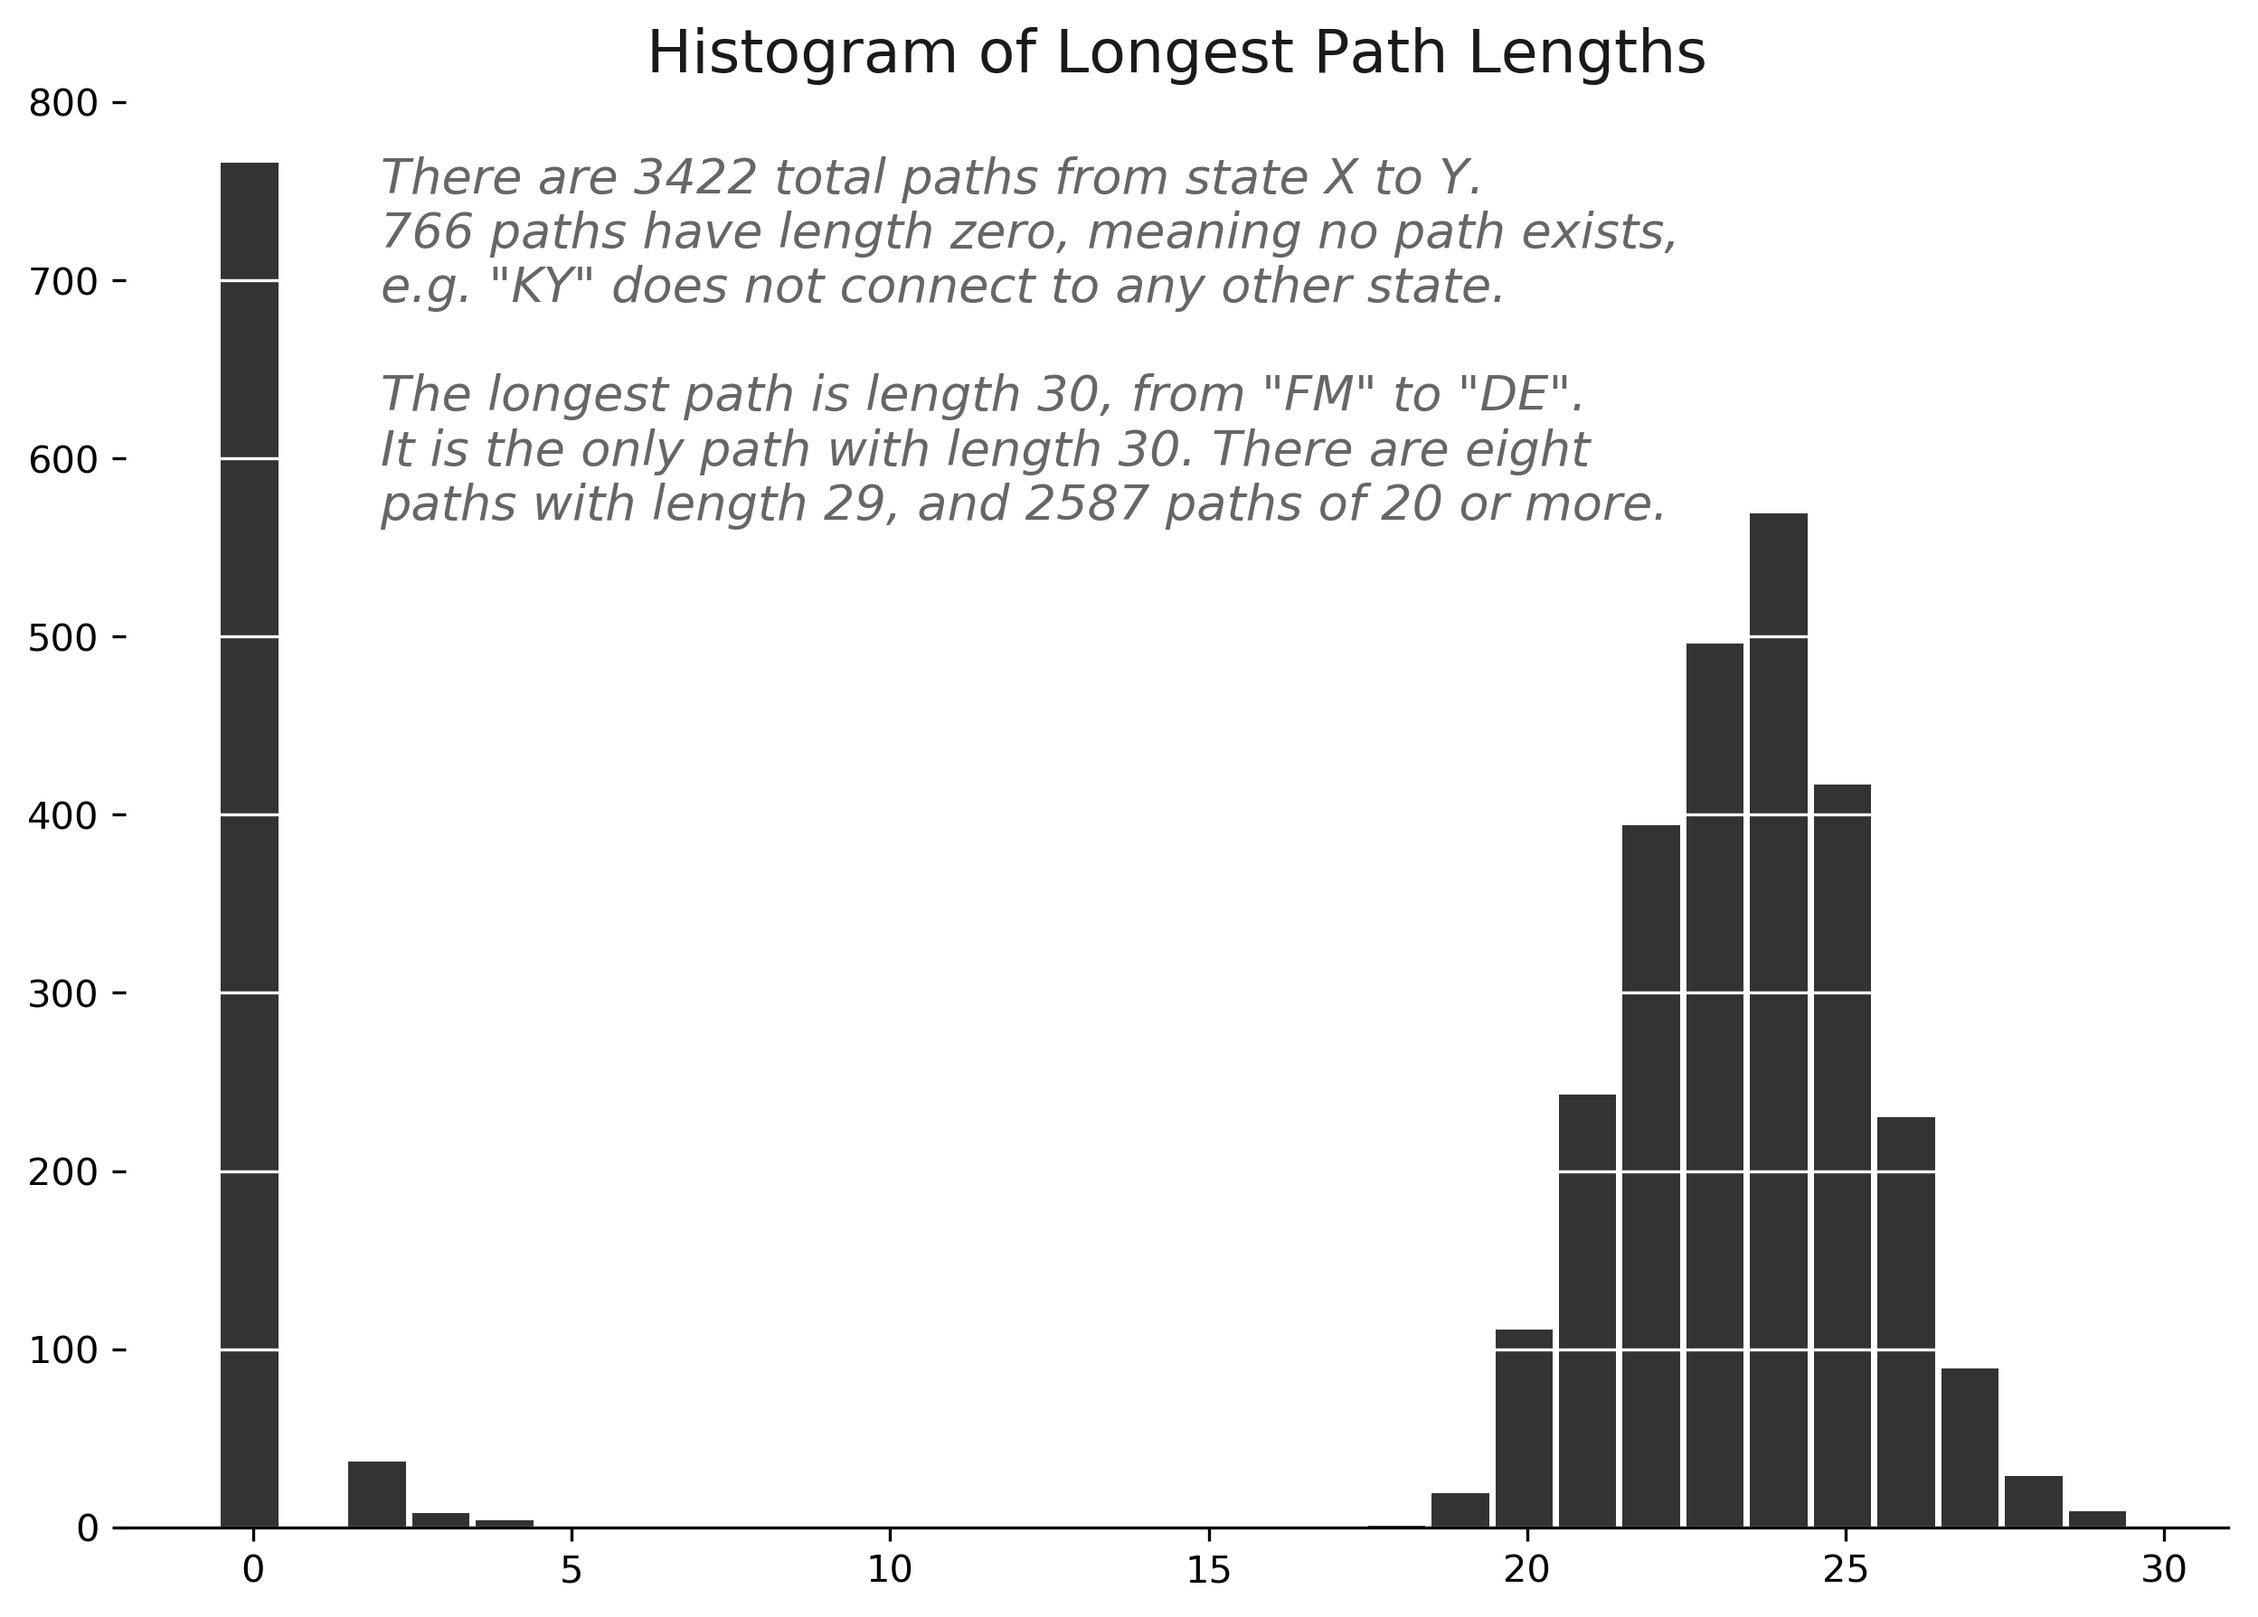
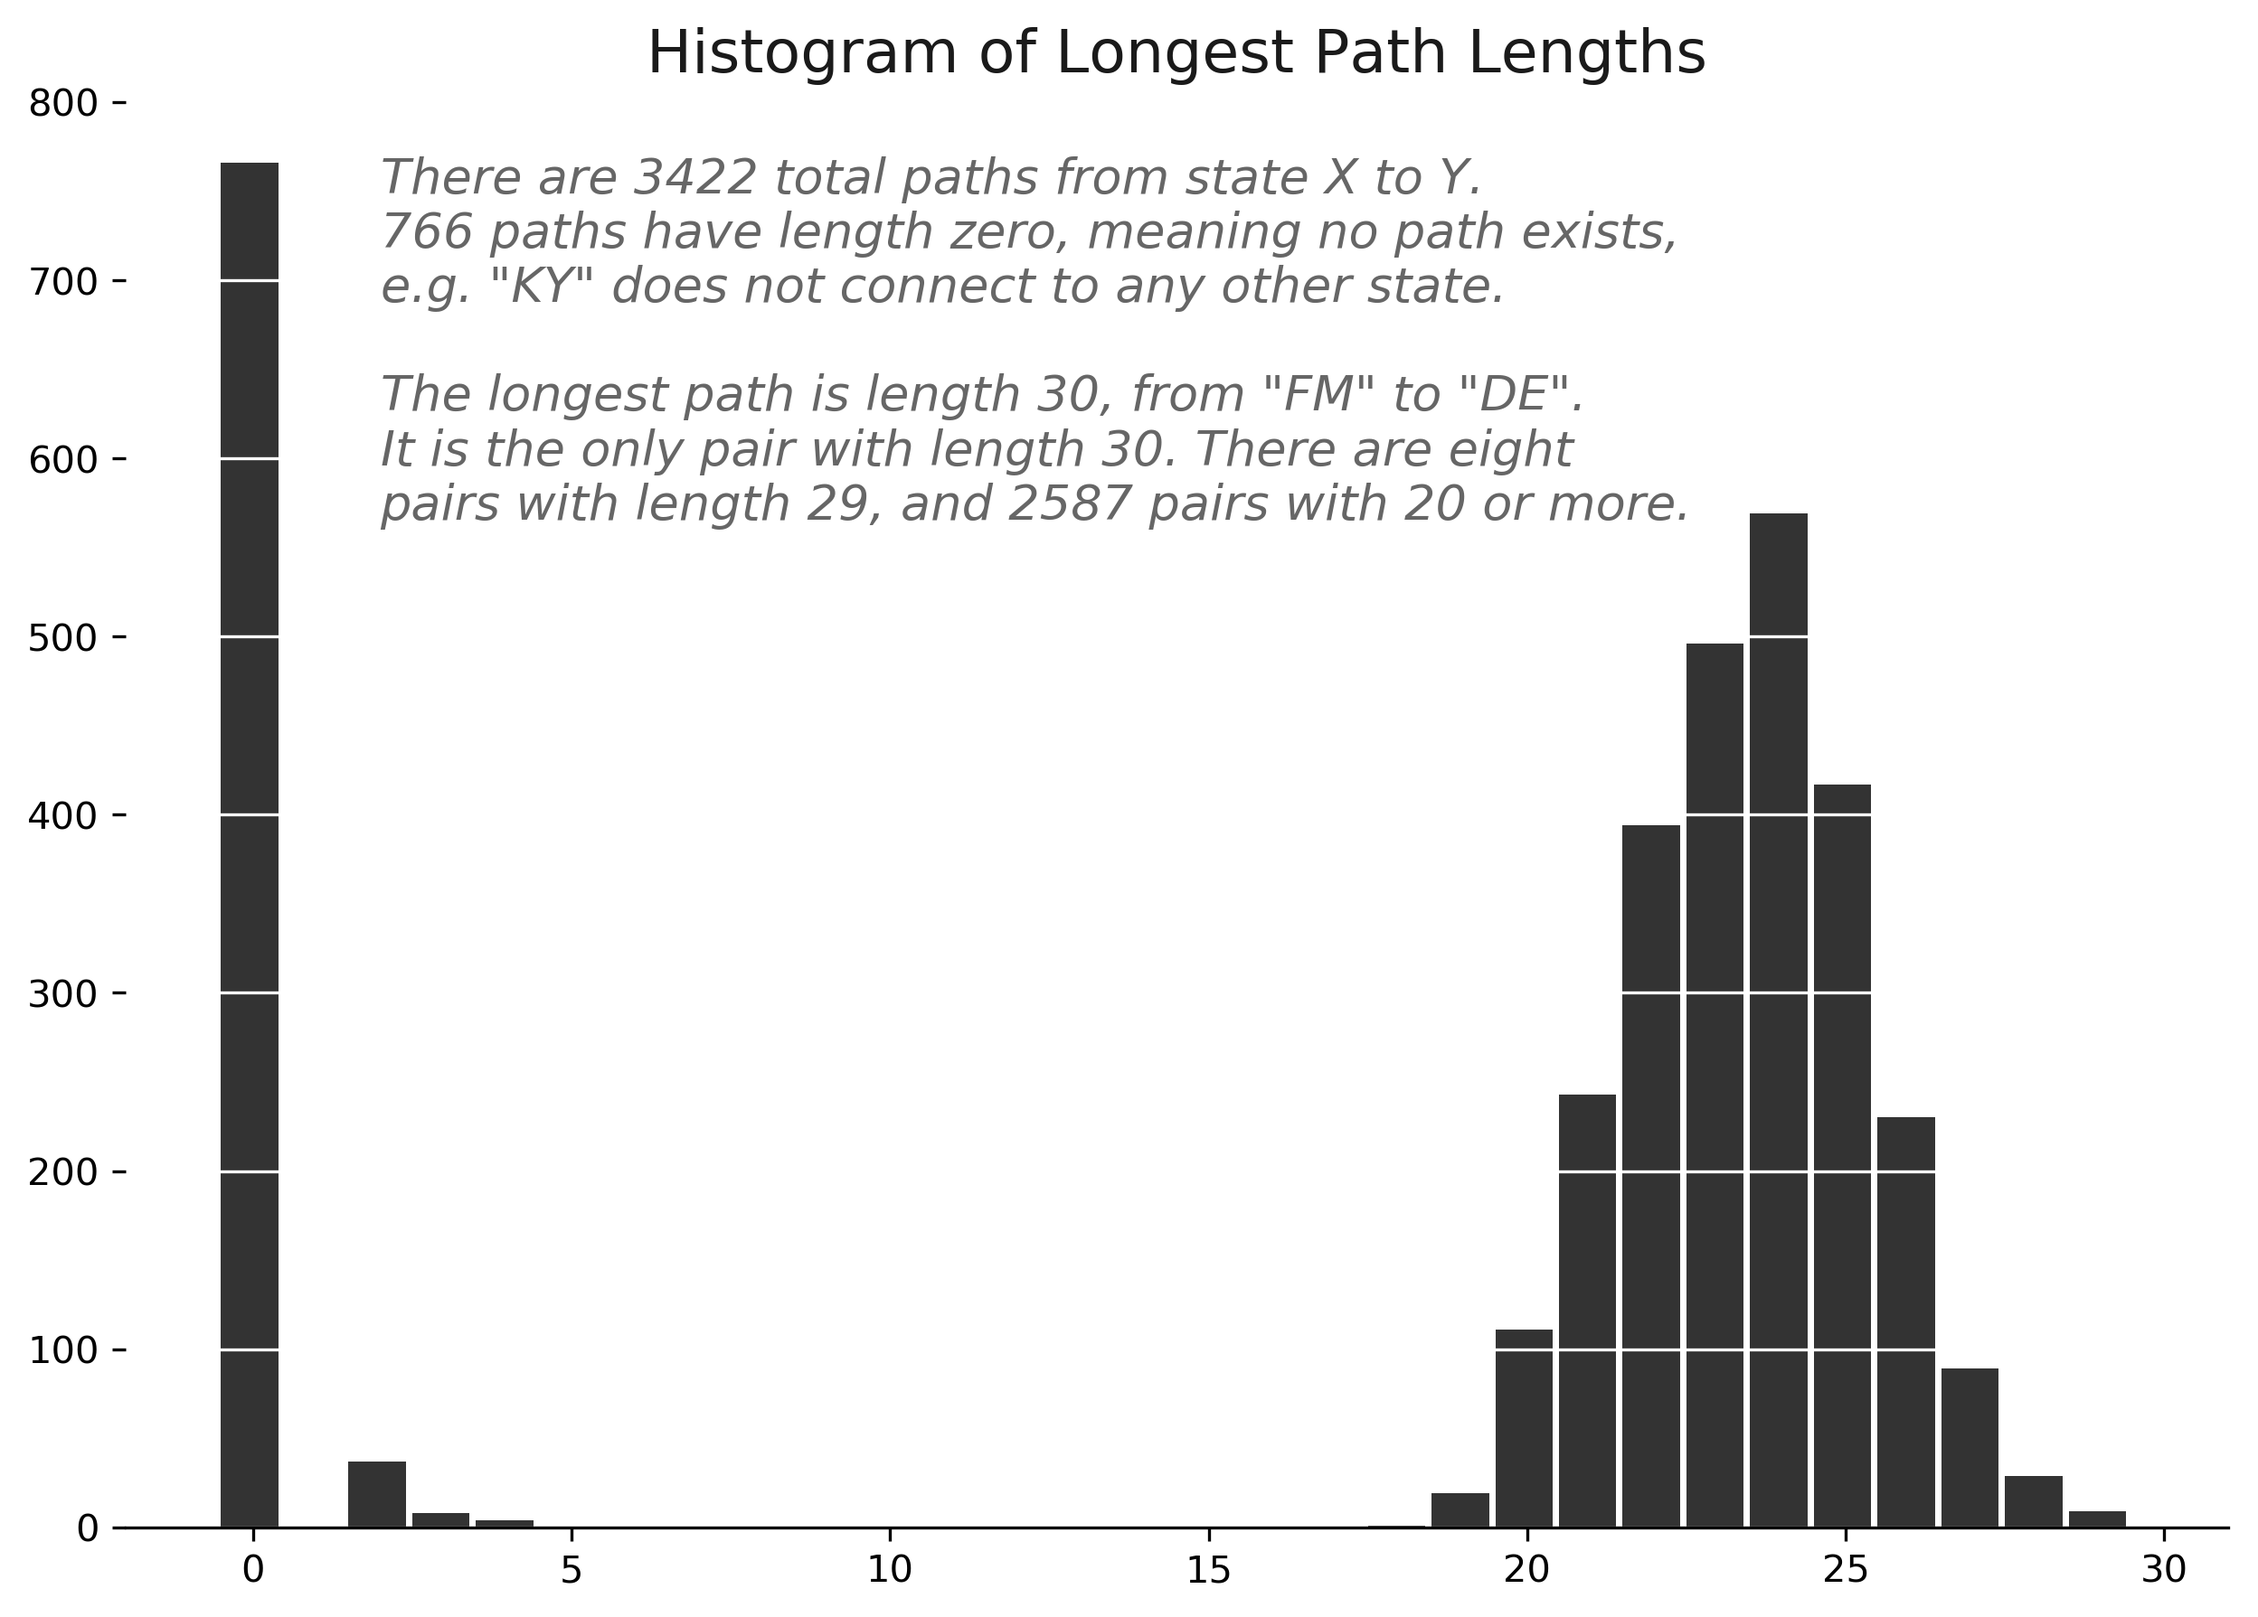
minor updates to riddler superstrings

Changed region(s): [[0.1874, 0.2459, 0.7497, 0.3382]]

diff --git a/riddler-state-superstrings.html b/riddler-state-superstrings.html
@@ -79,7 +79,7 @@
 <p>In the spirit of several prior problems, I elected to tackle this problem with a graph. The graph formalizes links between states. For example, California (CA) is linked to Alabama (AL), Alaska (AK), American Samoa (AS), Arizona (AZ), and Arkansas (AR) by the letter "A". On the other hand, certain states like Kentucky (KY) are lonelier. No state code begins with the letter Y, so Kentucky doesn't connect outward to any other state. (Don't worry, Alaska (AK) and Oklahoma (OK) connect <em>inwards</em> to Kentucky, so it's not totally alone.)</p>
 <p>Between the 59 states there are 168 connections, which we represent in a graph that looks something like this.</p>
 <p><img class="img-fluid mx-auto d-block" src="../images/20190913-riddler1.png"></p>
-<p>As it turns out, computing the longest path from any starting node to any other node is not a simple problem. It is especially difficult because this graph is <em>cyclical</em>, meaning that you can find yourself in loops of repeating patterns if you're not careful. For example, a simple loop occurs between CA -&gt; AS -&gt; SC -&gt; CA. Obviously we don't want loops in our result because we're not allowed to repeat states. Therefore, we want <em>simple paths</em> through the graph: paths that visit a node at most one time.</p>
+<p>As it turns out, computing the longest path from any starting node to any other node is not an easy problem. It is especially difficult because this graph is <em>cyclical</em>, meaning that you can find yourself in loops of repeating patterns if you're not careful. For example, a loop occurs between CA -&gt; AS -&gt; SC -&gt; CA. Obviously we don't want loops in our result because we're not allowed to repeat states. Therefore, we want <em>simple paths</em> through the graph: paths that visit a node at most one time.</p>
 <p>Furtunately, algorithms exist to calculate simple paths through cyclical graphs, but they can be very slow. Despite this, with a bit of patience (82 minutes of patience, to be specific in this case), we can calculate every path between every starting and ending state in the graph. There are $59\times 58=3422$ total pairs of states, and we measure the longest path between each pair. Then we just need to select the longest one from all the pairs. </p>
 <p>As it turns out, most paths tend to include at least 20 states, as shown by the chart below. On the other hand, several starting-ending state pairs have no connections, such as Kentucky, that can't connect outward to any other state. The chart below shows a histogram of all the longest paths between each pair of states.</p>
 <p><img class="img-fluid mx-auto d-block" src="../images/20190913-riddler2.png"></p>
@@ -189,11 +189,11 @@
 
 <span class="k">def</span> <span class="nf">longest_simple_path</span><span class="p">(</span><span class="n">graph</span><span class="p">,</span> <span class="n">source</span><span class="p">,</span> <span class="n">target</span><span class="p">,</span> <span class="o">**</span><span class="n">kwargs</span><span class="p">):</span>
     <span class="sd">&quot;&quot;&quot;Finds the longest simple path between two nodes in a graph&quot;&quot;&quot;</span>
-    <span class="n">generator</span> <span class="o">=</span> <span class="n">nx</span><span class="o">.</span><span class="n">all_simple_paths</span><span class="p">(</span><span class="n">G</span><span class="o">=</span><span class="n">graph</span><span class="p">,</span> <span class="n">source</span><span class="o">=</span><span class="n">source</span><span class="p">,</span> <span class="n">target</span><span class="o">=</span><span class="n">target</span><span class="p">,</span> <span class="o">**</span><span class="n">kwargs</span><span class="p">)</span>
+    <span class="n">paths</span> <span class="o">=</span> <span class="n">nx</span><span class="o">.</span><span class="n">all_simple_paths</span><span class="p">(</span><span class="n">G</span><span class="o">=</span><span class="n">graph</span><span class="p">,</span> <span class="n">source</span><span class="o">=</span><span class="n">source</span><span class="p">,</span> <span class="n">target</span><span class="o">=</span><span class="n">target</span><span class="p">,</span> <span class="o">**</span><span class="n">kwargs</span><span class="p">)</span>
     <span class="k">try</span><span class="p">:</span>
-        <span class="k">return</span> <span class="nb">max</span><span class="p">(</span><span class="n">generator</span><span class="p">,</span> <span class="n">key</span><span class="o">=</span><span class="nb">len</span><span class="p">)</span>
+        <span class="k">return</span> <span class="nb">max</span><span class="p">(</span><span class="n">paths</span><span class="p">,</span> <span class="n">key</span><span class="o">=</span><span class="nb">len</span><span class="p">)</span>
     <span class="k">except</span> <span class="ne">ValueError</span><span class="p">:</span>
-        <span class="c1"># generator is an empty sequence</span>
+        <span class="c1"># paths is an empty sequence</span>
         <span class="k">return</span> <span class="p">[]</span>
 
 <span class="k">def</span> <span class="nf">model</span><span class="p">(</span><span class="n">state_codes</span><span class="p">):</span>
@@ -211,7 +211,7 @@
     <span class="n">out</span> <span class="o">=</span> <span class="p">{}</span>
     <span class="n">G</span> <span class="o">=</span> <span class="n">graph</span><span class="p">(</span><span class="n">state_codes</span><span class="p">)</span>
     <span class="k">for</span> <span class="n">s</span><span class="p">,</span> <span class="n">t</span> <span class="ow">in</span> <span class="n">tqdm</span><span class="p">(</span><span class="nb">list</span><span class="p">(</span><span class="n">permutations</span><span class="p">(</span><span class="n">state_codes</span><span class="p">,</span> <span class="mi">2</span><span class="p">))):</span>
-        <span class="n">out</span><span class="o">.</span><span class="n">update</span><span class="p">({(</span><span class="n">s</span><span class="p">,</span> <span class="n">t</span><span class="p">):</span> <span class="n">longest_simple_path</span><span class="p">(</span><span class="n">G</span><span class="p">,</span> <span class="n">source</span><span class="o">=</span><span class="n">s</span><span class="p">,</span> <span class="n">target</span><span class="o">=</span><span class="n">t</span><span class="p">)})</span>
+        <span class="n">out</span><span class="p">[(</span><span class="n">s</span><span class="p">,</span> <span class="n">t</span><span class="p">)]</span> <span class="o">=</span> <span class="n">longest_simple_path</span><span class="p">(</span><span class="n">G</span><span class="p">,</span> <span class="n">source</span><span class="o">=</span><span class="n">s</span><span class="p">,</span> <span class="n">target</span><span class="o">=</span><span class="n">t</span><span class="p">)</span>
     <span class="k">return</span> <span class="n">out</span>
 
 <span class="k">def</span> <span class="nf">write_json</span><span class="p">(</span><span class="n">state_codes</span><span class="p">,</span> <span class="n">file_name</span><span class="p">):</span>
